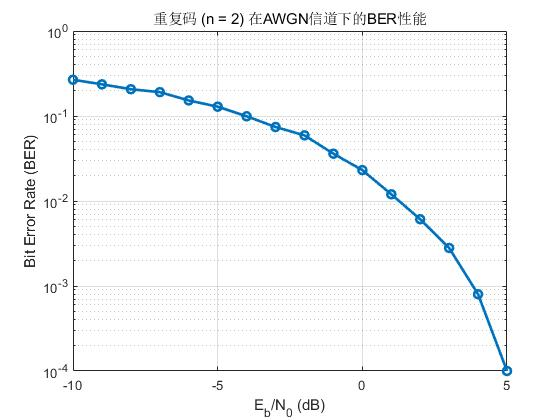
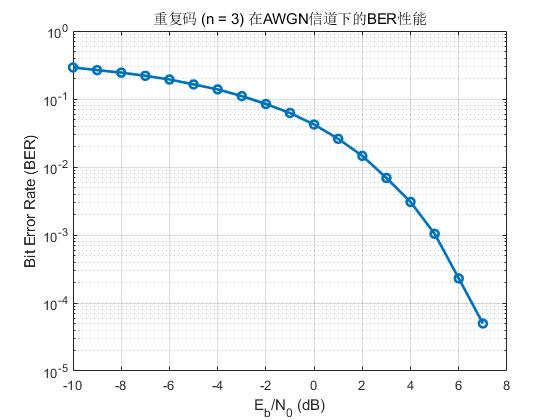
1

diff --git a/_posts/2025-07-23-简单的信道编码.md b/_posts/2025-07-23-简单的信道编码.md
@@ -111,8 +111,10 @@ for idx = 1:length(EbN0_dB)
 
     % 4. AWGN信道
     EbN0 = 10^(EbN0_dB(idx)/10);
-    noise_var = 1/(2*EbN0);
+    noise_var = 1/(EbN0);
+    % 这里是实信号，所以这边不需要除以2；如果是复信号，需要除以2
     noise = sqrt(noise_var) * randn(size(tx_symbols));
+
     rx_symbols = tx_symbols + noise;
 
     % 5. 多数表决解码
